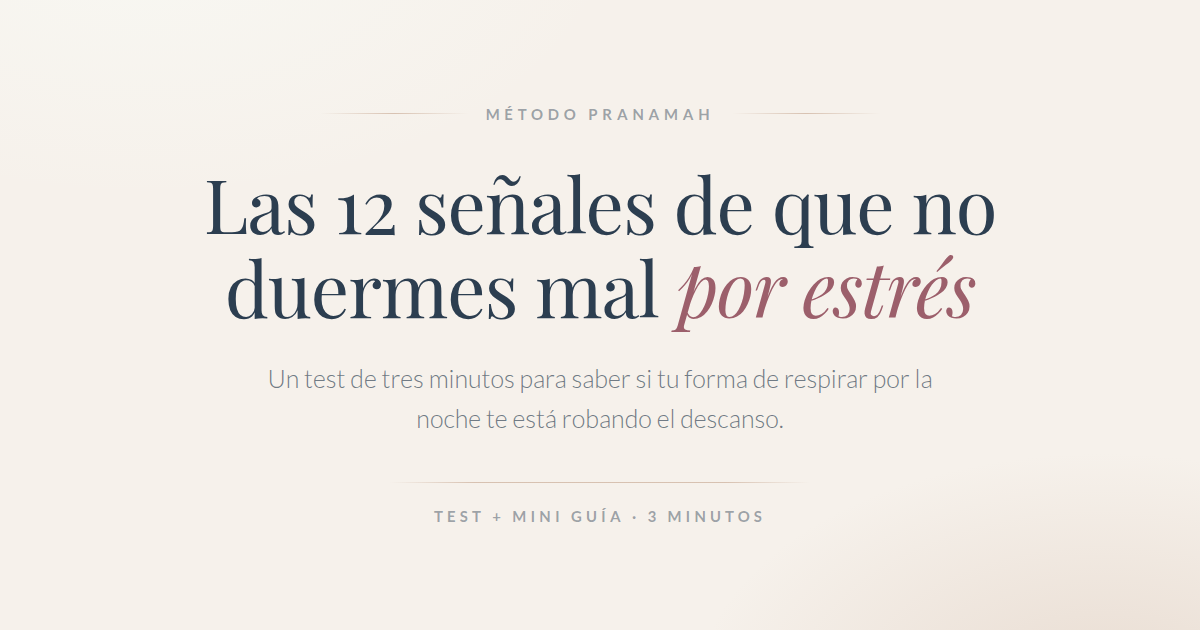
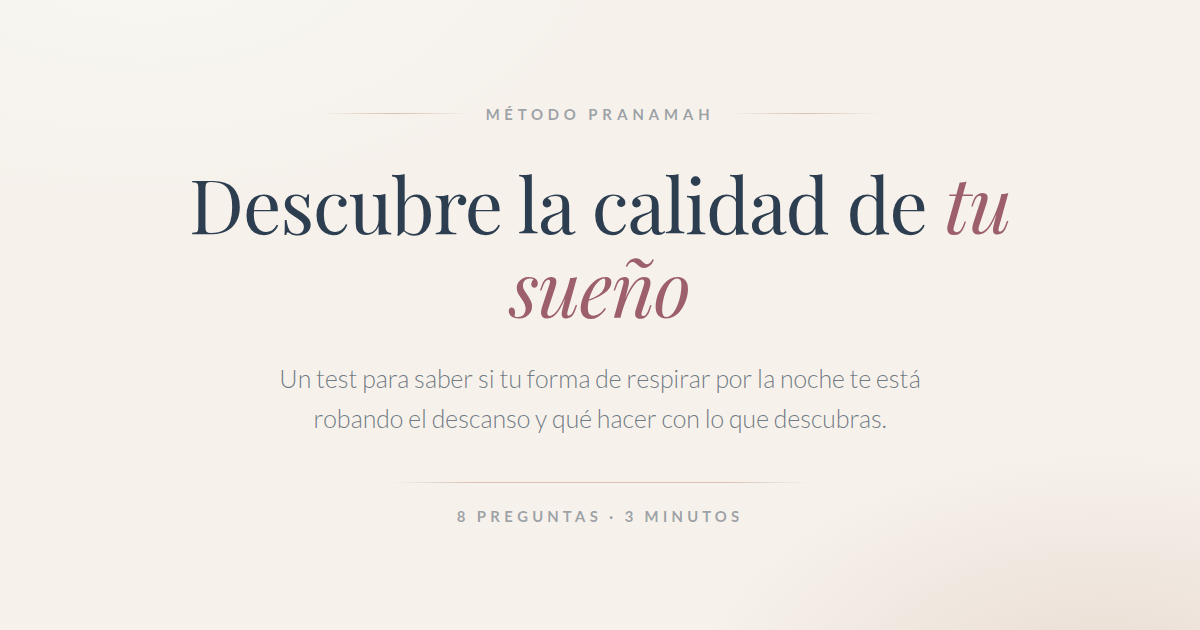
Nuevo titular y mini-lección personalizada en el CTA
- Portada: "Descubre la calidad de tu sueño" con el subtítulo nuevo.
  El título del documento, las metaetiquetas y la imagen de vista previa
  se regeneran para que el enlace compartido diga lo mismo que la página.
- El bloque final deja de ser igual para todos: según el perfil cambian
  el titular, los dos párrafos de arranque y el texto del botón. La
  invitación a la comunidad se mantiene común.
- La lección se alinea a la izquierda: con cinco líneas de texto se lee
  bastante mejor que centrada.
- Para que la pantalla final siga entrando sin scroll en móvil se ocultan
  ahí el texto del perfil y las señales, que repetían lo que ya cuenta la
  lección, y se ajustan los topes de tamaño.
- De paso, el bloque de móvil estaba colocado antes que los estilos base
  del CTA y quedaba pisado por ellos; se mueve detrás para que aplique.

Verificado sin scroll de 360x640 a 1920x1080.

Claude-Session: https://claude.ai/code/session_01TuSTRsKnENjt6mAEjFBp8T

Changed region(s): [[0.1542, 0.2714, 0.8633, 0.5429], [0.2158, 0.573, 0.7708, 0.6937], [0.37, 0.8143, 0.6475, 0.8444]]

diff --git a/index.html b/index.html
@@ -3,8 +3,8 @@
 <head>
 <meta charset="UTF-8">
 <meta name="viewport" content="width=device-width, initial-scale=1, viewport-fit=cover">
-<title>Test · ¿Tu respiración nocturna te está robando el descanso? — Método Pranamah</title>
-<meta name="description" content="Un test de tres minutos para saber si tu forma de respirar por la noche te está robando el descanso — y qué hacer con lo que descubras.">
+<title>Descubre la calidad de tu sueño · Método Pranamah</title>
+<meta name="description" content="Un test para saber si tu forma de respirar por la noche te está robando el descanso y qué hacer con lo que descubras.">
 <meta name="theme-color" content="#f6f1eb">
 
 <link rel="canonical" href="https://pranamahacademy-prog.github.io/leadmagnets/">
@@ -15,18 +15,18 @@
 <meta property="og:type" content="website">
 <meta property="og:url" content="https://pranamahacademy-prog.github.io/leadmagnets/">
 <meta property="og:site_name" content="Método Pranamah">
-<meta property="og:title" content="Las 12 señales de que no duermes mal por estrés">
-<meta property="og:description" content="Un test de tres minutos para saber si tu forma de respirar por la noche te está robando el descanso.">
+<meta property="og:title" content="Descubre la calidad de tu sueño">
+<meta property="og:description" content="Un test para saber si tu forma de respirar por la noche te está robando el descanso y qué hacer con lo que descubras.">
 <meta property="og:image" content="https://pranamahacademy-prog.github.io/leadmagnets/og.png">
 <meta property="og:image:type" content="image/png">
 <meta property="og:image:width" content="1200">
 <meta property="og:image:height" content="630">
-<meta property="og:image:alt" content="Las 12 señales de que no duermes mal por estrés · Método Pranamah">
+<meta property="og:image:alt" content="Descubre la calidad de tu sueño · Método Pranamah">
 <meta property="og:locale" content="es_ES">
 
 <meta name="twitter:card" content="summary_large_image">
-<meta name="twitter:title" content="Las 12 señales de que no duermes mal por estrés">
-<meta name="twitter:description" content="Un test de tres minutos para saber si tu forma de respirar por la noche te está robando el descanso.">
+<meta name="twitter:title" content="Descubre la calidad de tu sueño">
+<meta name="twitter:description" content="Un test para saber si tu forma de respirar por la noche te está robando el descanso y qué hacer con lo que descubras.">
 <meta name="twitter:image" content="https://pranamahacademy-prog.github.io/leadmagnets/og.png">
 
 
@@ -404,29 +404,6 @@ body.is-result .foot{ display:none; }
   .cta{ margin-top:0; display:flex; flex-direction:column; justify-content:center; }
 }
 
-/* Una sola columna: el diagnóstico y el acceso a la comunidad van apilados y
-   no cabe además el detalle de señales, así que manda el acceso. Además se
-   frena el crecimiento de las medidas para que no se coma el alto ganado. */
-@media (max-width:899px){
-  #screen-result .signals{ display:none; }
-  #screen-result .result__text{ margin-bottom:clamp(2px, .6svh, 8px); }
-
-  .gauge{ width:clamp(80px, 12.5svh, 116px); height:clamp(80px, 12.5svh, 116px); }
-  .gauge__num{ font-size:clamp(1.45rem, 3.9svh, 1.95rem); }
-  .result__title{ font-size:clamp(1.22rem, 3.1svh, 1.72rem); }
-  .result__text{ font-size:clamp(.86rem, 1.7svh, .97rem); }
-  .cta h2{ font-size:clamp(1.16rem, 2.9svh, 1.68rem); }
-  .cta p{ font-size:clamp(.85rem, 1.7svh, .97rem); }
-  .btn--whatsapp{ min-height:clamp(46px, 6.4svh, 54px); }
-}
-
-/* Móviles bajos: cada píxel cuenta */
-@media (max-height:700px){
-  #screen-result .restart{ display:none; }
-  body.is-result .wrap{ padding-top:10px; padding-bottom:10px; }
-  .cta{ padding-top:16px; padding-bottom:16px; }
-}
-
 .result__head{ text-align:center; }
 
 .gauge{
@@ -544,24 +521,41 @@ body.is-result .foot{ display:none; }
 .cta .eyebrow{ color:rgba(248,248,243,.55); margin-bottom:20px; }
 .cta .eyebrow::before,
 .cta .eyebrow::after{ background:linear-gradient(90deg, transparent, rgba(248,248,243,.30), transparent); }
+.cta .eyebrow{ margin-bottom:clamp(10px, 1.8svh, 22px); }
+
+.cta__leccion{
+  max-width:54ch;
+  margin:0 auto clamp(14px, 2.4svh, 28px);
+  text-align:left;
+}
 .cta h2{
+  margin-bottom:clamp(7px, 1.3svh, 14px);
   color:var(--blanco);
-  font-size:clamp(1.18rem, 3.2svh, 2.1rem);
-  line-height:1.18;
-  text-wrap:balance;
+  font-size:clamp(1.02rem, 2.5svh, 1.5rem);
+  line-height:1.32;
+  text-wrap:pretty;
 }
 .cta h2 em{ font-style:italic; color:var(--arena); }
 .cta p{
-  margin:clamp(8px, 1.4svh, 14px) auto clamp(13px, 2.2svh, 28px);
-  max-width:44ch;
+  margin:0 0 clamp(7px, 1.2svh, 12px);
   font-weight:300;
-  font-size:clamp(.85rem, 1.8svh, 1rem);
+  font-size:clamp(.83rem, 1.75svh, .98rem);
   line-height:1.6;
   color:rgba(248,248,243,.78);
   text-wrap:pretty;
 }
+.cta p:last-child{ margin-bottom:0; }
+
+/* La invitación cierra la lección, un punto por debajo del resto */
+.cta__invitacion{
+  margin-top:clamp(9px, 1.6svh, 16px) !important;
+  padding-top:clamp(9px, 1.6svh, 16px);
+  border-top:1px solid rgba(248,248,243,.16);
+  color:rgba(248,248,243,.66) !important;
+}
 .cta__fine{
   margin:clamp(9px, 1.5svh, 16px) auto 0;
+  text-align:center;
   max-width:34ch;
   font-size:.72rem;
   letter-spacing:.05em;
@@ -593,6 +587,46 @@ body.is-result .foot{ display:none; }
   letter-spacing:.12em;
   text-transform:uppercase;
   color:var(--tinta-tenue);
+}
+
+/* Una sola columna: el diagnóstico y el acceso a la comunidad van apilados y
+   no cabe además el detalle de señales, así que manda el acceso. Además se
+   frena el crecimiento de las medidas para que no se coma el alto ganado. */
+@media (max-width:899px){
+  /* En vertical el diagnóstico y la mini-lección dicen lo mismo con otras
+     palabras. Se queda la lección, que es la que lleva al botón. */
+  #screen-result .signals,
+  #screen-result .result__text{ display:none; }
+  #screen-result .result__title{ margin-bottom:clamp(2px, .6svh, 8px); }
+  .cta .eyebrow{ margin-bottom:clamp(8px, 1.4svh, 16px); }
+
+  /* Apilado hay que ser más estricto: la lección ocupa cinco líneas y el
+     botón tiene que seguir viéndose sin desplazar. */
+  .gauge{ width:clamp(74px, 10.4svh, 98px); height:clamp(74px, 10.4svh, 98px); }
+  .gauge__num{ font-size:clamp(1.3rem, 3.2svh, 1.6rem); }
+  .gauge__label{ font-size:.54rem; }
+  .result__title{ font-size:clamp(1.1rem, 2.7svh, 1.42rem); }
+
+  .cta{ padding:clamp(16px, 2.6svh, 30px) var(--gutter); }
+  .cta h2{ font-size:clamp(1rem, 2.15svh, 1.16rem); line-height:1.3; }
+  .cta p{ font-size:clamp(.81rem, 1.55svh, .91rem); line-height:1.52; }
+  .cta__leccion{ margin-bottom:clamp(10px, 1.8svh, 18px); }
+  .cta__invitacion{
+    margin-top:clamp(7px, 1.2svh, 12px) !important;
+    padding-top:clamp(7px, 1.2svh, 12px);
+  }
+  .btn--whatsapp{ min-height:clamp(46px, 6.2svh, 52px); }
+}
+
+/* Móviles bajos: cada píxel cuenta */
+@media (max-height:700px){
+  #screen-result .restart{ display:none; }
+  body.is-result .wrap{ padding-top:8px; padding-bottom:8px; }
+  .cta{ padding-top:14px; padding-bottom:14px; }
+  #screen-result .card{ padding-top:14px; padding-bottom:14px; }
+  .gauge{ width:72px; height:72px; margin-bottom:8px; }
+  .gauge__num{ font-size:1.24rem; }
+  .cta__leccion{ margin-bottom:10px; }
 }
 
 /* ---------- Escritorio: cada pantalla entra sin scroll ----------
@@ -682,12 +716,11 @@ body.is-result .foot{ display:none; }
     <div class="card">
       <p class="eyebrow"><span>Método Pranamah</span></p>
 
-      <h1 id="intro-title">Las 12 señales de que no duermes mal <em>por estrés</em></h1>
+      <h1 id="intro-title">Descubre la calidad de <em>tu sueño</em></h1>
 
       <p class="lead">
-        Un test de tres minutos para saber si tu forma de respirar
-        por la noche te está robando el descanso — y qué hacer
-        con lo que descubras.
+        Un test para saber si tu forma de respirar por la noche te está
+        robando el descanso y qué hacer con lo que descubras.
       </p>
 
       <hr class="rule">
@@ -758,12 +791,19 @@ body.is-result .foot{ display:none; }
       <ul class="signals" id="result-signals"></ul>
     </div>
 
-    <!-- CTA final: comunidad de WhatsApp -->
+    <!-- CTA final: mini-lección personalizada + comunidad de WhatsApp -->
     <div class="cta">
-      <h2>Únete a la <em>comunidad</em></h2>
-      <p id="cta-text">
-        Dentro compartimos recursos gratuitos y guías para mejorar el sueño.
-      </p>
+      <p class="eyebrow"><span>Únete a la comunidad</span></p>
+
+      <div class="cta__leccion">
+        <h2 id="cta-titulo">…</h2>
+        <div id="cta-lineas"></div>
+        <p class="cta__invitacion">
+          Dentro de mi comunidad gratuita de WhatsApp comparto ejercicios de
+          respiración funcional, audios y masterclass en directo para llevarlo
+          a tu día a día.
+        </p>
+      </div>
 
       <a class="btn btn--whatsapp"
          id="cta-link"
@@ -772,7 +812,7 @@ body.is-result .foot{ display:none; }
         <svg viewBox="0 0 24 24" fill="currentColor" aria-hidden="true">
           <path d="M17.47 14.38c-.3-.15-1.75-.86-2.02-.96-.27-.1-.47-.15-.67.15-.2.3-.77.96-.94 1.16-.17.2-.35.22-.64.07-.3-.15-1.25-.46-2.38-1.47-.88-.78-1.47-1.75-1.65-2.05-.17-.3-.02-.46.13-.6.13-.14.3-.35.45-.52.15-.17.2-.3.3-.5.1-.2.05-.37-.03-.52-.07-.15-.67-1.6-.92-2.2-.24-.58-.48-.5-.67-.5h-.57c-.2 0-.52.07-.79.37-.27.3-1.04 1.01-1.04 2.46s1.07 2.86 1.22 3.06c.15.2 2.1 3.2 5.08 4.49.71.3 1.26.49 1.69.63.71.22 1.36.19 1.87.12.57-.09 1.75-.72 2-1.41.25-.69.25-1.28.17-1.41-.07-.13-.27-.2-.57-.35zM12.05 2.5A9.44 9.44 0 0 0 2.6 11.94c0 1.67.44 3.3 1.27 4.74L2.5 21.5l4.95-1.3a9.4 9.4 0 0 0 4.6 1.17h.01a9.44 9.44 0 0 0 0-18.87zm0 17.3h-.01a7.85 7.85 0 0 1-4-1.09l-.29-.17-2.94.77.78-2.87-.19-.3a7.84 7.84 0 1 1 6.65 3.66z"/>
         </svg>
-        Entrar en la comunidad
+        <span id="cta-boton">Quiero entrar</span>
       </a>
 
       <p class="cta__fine">Grupo gratuito de WhatsApp · Puedes salir cuando quieras</p>
@@ -896,7 +936,13 @@ body.is-result .foot{ display:none; }
         "Respirar por la nariz de día es lo que mantiene la nariz abierta de noche.",
         "En semanas de estrés, tres minutos de exhalación lenta antes de dormir sostienen el terreno.",
         "Reconocer las señales pronto es lo que evita que el problema se instale."
-      ]
+      ],
+      ctaTitulo: "Dormir 7 u 8 horas no siempre significa descansar bien.",
+      ctaLineas: [
+        "Si roncas, amaneces con la boca seca, duermes con la boca abierta o te levantas sin energía, tu cuerpo puede estar dándote pistas de que tu descanso no está siendo tan reparador como debería.",
+        "La respiración nocturna es una de las cosas que merece la pena observar."
+      ],
+      ctaBoton: "Quiero aprender más"
     },
     {
       max: 15,
@@ -907,7 +953,13 @@ body.is-result .foot{ display:none; }
         "La boca seca y el desvelo de madrugada son el mismo problema a dos horas distintas.",
         "La mandíbula apretada suele ser el intento de mantener la vía aérea abierta.",
         "Es reversible: lo que se entrena de día es lo que cambia la noche."
-      ]
+      ],
+      ctaTitulo: "Puede que te hayas acostumbrado, pero no significa que sea normal.",
+      ctaLineas: [
+        "Roncar, dormir con la boca abierta o despertarte cansado son señales de que tu respiración durante la noche merece atención.",
+        "Y muchas veces empezamos a verlo solo cuando sabemos qué observar."
+      ],
+      ctaBoton: "Quiero entrar"
     },
     {
       max: 24,
@@ -918,7 +970,13 @@ body.is-result .foot{ display:none; }
         "Cansancio que no cede aunque duermas siete u ocho horas.",
         "Nariz tapada, boca abierta y madrugada en vela son una misma cadena.",
         "Con ronquido fuerte o pausas al respirar, conviene consultarlo con un profesional."
-      ]
+      ],
+      ctaTitulo: "Quizá no seas simplemente «una persona que duerme mal».",
+      ctaLineas: [
+        "Roncar, respirar por la boca o necesitar muchas horas de sueño y seguir cansado pueden ser señales de que algo está interfiriendo en la calidad de tu descanso.",
+        "Y tu forma de respirar durante la noche puede formar parte de esa ecuación."
+      ],
+      ctaBoton: "Seguir aprendiendo"
     }
   ];
 
@@ -1079,6 +1137,17 @@ body.is-result .foot{ display:none; }
       var li = document.createElement("li");
       li.textContent = texto;
       ul.appendChild(li);
+    });
+
+    $("cta-titulo").textContent = p.ctaTitulo;
+    $("cta-boton").textContent  = p.ctaBoton;
+
+    var lineas = $("cta-lineas");
+    lineas.innerHTML = "";
+    p.ctaLineas.forEach(function (texto) {
+      var e = document.createElement("p");
+      e.textContent = texto;
+      lineas.appendChild(e);
     });
 
     $("gauge-a11y").textContent =

diff --git a/README.md b/README.md
@@ -1,6 +1,6 @@
 # Lead magnets · Método Pranamah
 
-## Test interactivo — «Las 12 señales de que no duermes mal por estrés»
+## Test interactivo — «Descubre la calidad de tu sueño»
 
 `index.html` es el test de 8 preguntas que lleva a la comunidad de WhatsApp.
 
@@ -15,8 +15,22 @@ publicar en Netlify / Vercel / GitHub Pages o incrustar en un `<iframe>`.
    al responder. Se puede volver atrás y las respuestas se guardan en el
    navegador, así que si alguien cierra a mitad, retoma donde lo dejó.
 3. **Cálculo** — dos segundos de espera antes del resultado.
-4. **Resultado + comunidad** — bienestar del sueño sobre 10, perfil y acceso al
-   grupo, todo en la misma pantalla.
+4. **Resultado + comunidad** — bienestar del sueño sobre 10, perfil, una
+   mini-lección personalizada y el acceso al grupo, en la misma pantalla.
+
+### La mini-lección del CTA
+
+El bloque final no es igual para todos. Según el perfil cambian el arranque
+—un titular y dos párrafos— y el texto del botón:
+
+| Perfil | Arranque | Botón |
+|---|---|---|
+| Descanso sólido | «Dormir 7 u 8 horas no siempre significa descansar bien.» | Quiero aprender más |
+| Descanso en riesgo | «Puede que te hayas acostumbrado, pero no significa que sea normal.» | Quiero entrar |
+| Descanso comprometido | «Quizá no seas simplemente "una persona que duerme mal".» | Seguir aprendiendo |
+
+La invitación a la comunidad que cierra el bloque es la misma en los tres casos.
+Todo ello vive en `PROFILES`, en los campos `ctaTitulo`, `ctaLineas` y `ctaBoton`.
 
 ## Publicarlo y compartirlo por enlace
 
@@ -79,8 +93,10 @@ siempre a la vista. Para conseguirlo se adapta al espacio disponible:
 - **A partir de 900 px de ancho** el diagnóstico y el bloque de comunidad van en
   dos columnas, así que la altura es la del más alto y caben también las tres
   señales del perfil.
-- **En móvil**, apilados, no hay sitio para las tres señales además del acceso a
-  la comunidad, así que se ocultan: mandan la puntuación, el perfil y el botón.
+- **En móvil**, apilados, no caben las tres señales ni el texto del perfil
+  además de la mini-lección, y como esta última dice lo mismo con otras
+  palabras, se ocultan los dos primeros: quedan la puntuación, el título del
+  perfil y la lección que lleva al botón.
 
 Comprobado sin scroll de 360×640 a 1440×900.
 
